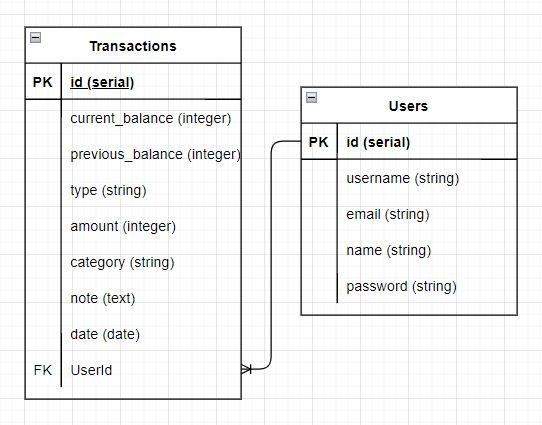
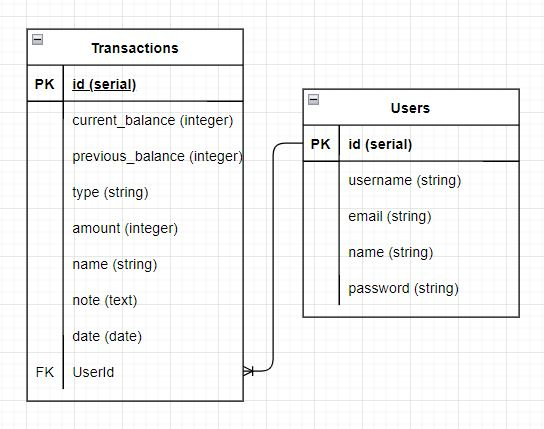
move jwt secret to .env and rename column category to name in Transaction table

Changed region(s): [[0.0295, 0.0612, 0.5018, 0.9482], [0.5018, 0.1835, 0.9742, 0.7341], [0.5609, 0.7341, 0.9446, 0.7647]]

diff --git a/budget-application/server/controllers/transactionController.js b/budget-application/server/controllers/transactionController.js
@@ -3,7 +3,14 @@ const { Transaction } = require("../models");
 class TransactionController {
   static async getTransactions(req, res, next) {
     try {
-      const transactions = await Transaction.findAll();
+      const { sort } = req.query;
+      let option = { order: [["date", "DESC"]] };
+
+      if (sort) {
+        option.order = [["date", sort]];
+      }
+
+      const transactions = await Transaction.findAll(option);
 
       res.status(200).json(transactions);
     } catch (err) {
@@ -13,9 +20,10 @@ class TransactionController {
 
   static async postTransaction(req, res, next) {
     try {
-      const { type, amount, category, note, date } = req.body;
+      const { type, amount, name, note, date } = req.body;
       let current_balance = 0;
       let previous_balance = 0;
+      let balance = 0;
 
       const getLastBalance = await Transaction.findAll({
         where: { UserId: req.user.id },
@@ -32,10 +40,10 @@ class TransactionController {
         if (previous_balance < Number(amount)) {
           throw { name: "insufficientBalance" };
         } else {
-          current_balance -= Number(amount);
+          balance = current_balance - Number(amount);
         }
       } else {
-        current_balance += Number(amount);
+        balance = current_balance + Number(amount);
       }
 
       if (amount <= 0) {
@@ -43,11 +51,11 @@ class TransactionController {
       }
 
       const createTransaction = await Transaction.create({
-        current_balance,
-        previous_balance: getLastBalance[0].current_balance,
+        current_balance: balance,
+        previous_balance: current_balance,
         type,
         amount: Number(amount),
-        category,
+        name,
         note,
         date,
         UserId: req.user.id,

diff --git a/budget-application/server/models/transaction.js b/budget-application/server/models/transaction.js
@@ -2,11 +2,6 @@
 const { Model } = require("sequelize");
 module.exports = (sequelize, DataTypes) => {
   class Transaction extends Model {
-    /**
-     * Helper method for defining associations.
-     * This method is not a part of Sequelize lifecycle.
-     * The `models/index` file will call this method automatically.
-     */
     static associate(models) {
       Transaction.belongsTo(models.User, { foreignKey: "UserId" });
     }
@@ -37,15 +32,15 @@ module.exports = (sequelize, DataTypes) => {
           },
         },
       },
-      category: {
+      name: {
         type: DataTypes.STRING,
         allowNull: false,
         validate: {
           notNull: {
-            msg: "Amount can't be empty",
+            msg: "Transaction name can't be empty",
           },
           notEmpty: {
-            msg: "Amount can't be empty",
+            msg: "Transaction name can't be empty",
           },
         },
       },
@@ -57,10 +52,10 @@ module.exports = (sequelize, DataTypes) => {
         allowNull: false,
         validate: {
           notNull: {
-            msg: "Amount can't be empty",
+            msg: "Date can't be empty",
           },
           notEmpty: {
-            msg: "Amount can't be empty",
+            msg: "Date can't be empty",
           },
         },
       },

diff --git a/budget-application/server/migrations/20211130042528-create-transaction.js b/budget-application/server/migrations/20211130042528-create-transaction.js
@@ -24,7 +24,7 @@ module.exports = {
         type: Sequelize.INTEGER,
         allowNull: false,
       },
-      category: {
+      name: {
         type: Sequelize.STRING,
         allowNull: false,
       },

diff --git a/budget-application/server/helpers/jwt.js b/budget-application/server/helpers/jwt.js
@@ -1,5 +1,5 @@
 const jwt = require("jsonwebtoken");
-const secret = "thisissecret";
+const secret = process.env.JWT_SECRET;
 
 function createToken(obj) {
   return jwt.sign(obj, secret);
